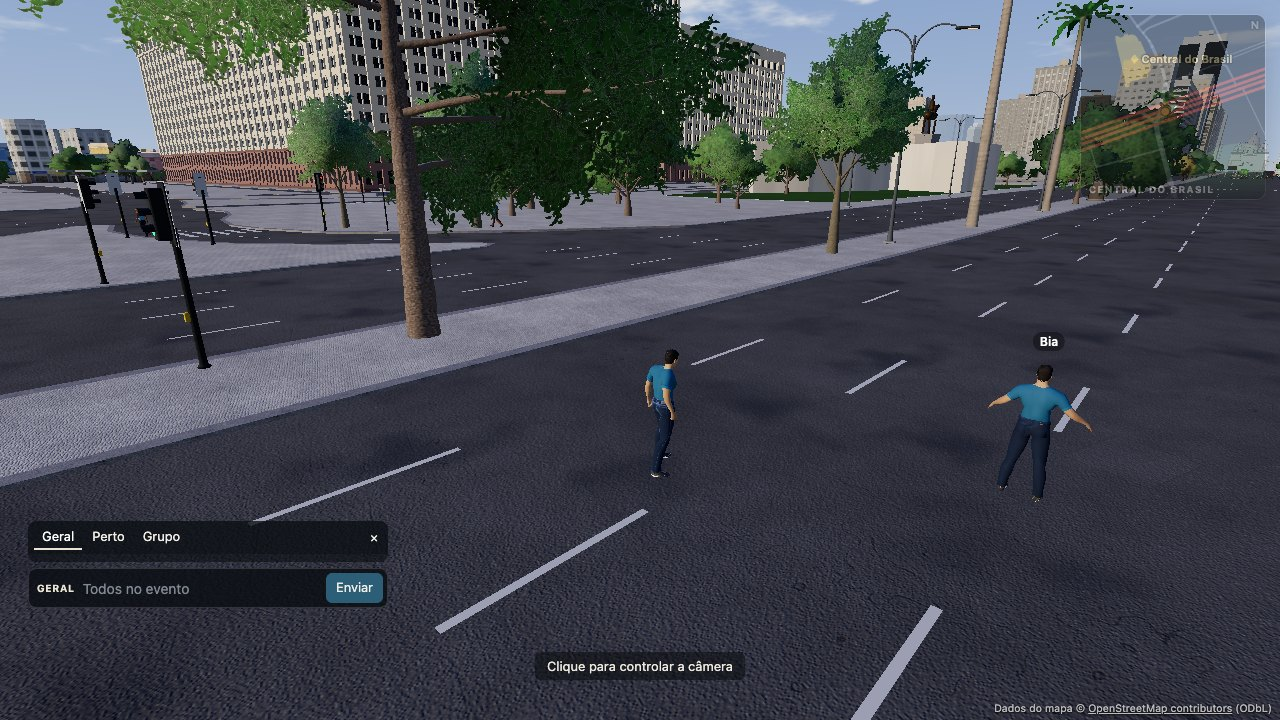
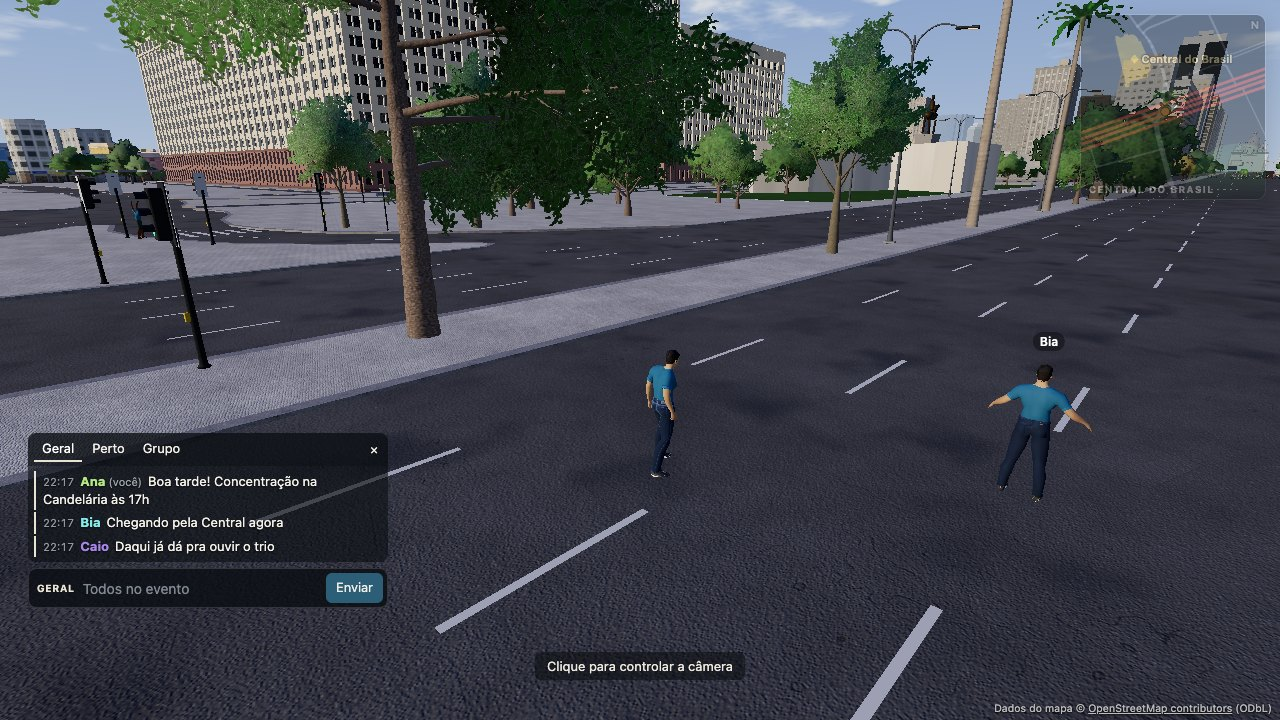
fix(net): NetworkClient.on keeps several listeners per message type (the name-priority hook was replacing the chat panel's handler); chat_mp 22/22

diff --git a/src/net/NetworkClient.ts b/src/net/NetworkClient.ts
@@ -178,7 +178,7 @@ export class NetworkClient {
       this.room = room;
       this.sessionId = room.sessionId;
       this.status = 'online';
-      for (const [type, fn] of this.handlers) room.onMessage(type, fn);
+      for (const type of this.handlers.keys()) room.onMessage(type, (m: unknown) => this.dispatch(type, m));
       room.onMessage('spawn', (s: { x: number; y: number; z: number; heading: number; policy: 'pacifico' | 'opcional'; seed: number }) => {
         this.policy = s.policy; this.seed = s.seed;
         this.onSpawn?.(s);
@@ -255,8 +255,18 @@ export class NetworkClient {
 
   send(type: string, payload?: unknown) { this.room?.send(type, payload); }
   /** mensagens de outros sistemas (ex.: grafite, src/graffiti/GraffitiSystem.ts): registradas antes ou depois do connect */
-  private handlers = new Map<string, (msg: any) => void>();
-  on(type: string, fn: (msg: any) => void) { this.handlers.set(type, fn); this.room?.onMessage(type, fn); }
+  /** VÁRIOS ouvintes por tipo (chat: painel + prioridade de nomes) — um despachante por tipo na sala */
+  private handlers = new Map<string, Set<(msg: any) => void>>();
+  private dispatch(type: string, m: unknown) { for (const fn of this.handlers.get(type) ?? []) fn(m); }
+  on(type: string, fn: (msg: any) => void) {
+    let set = this.handlers.get(type);
+    if (!set) {
+      this.handlers.set(type, (set = new Set()));
+      this.room?.onMessage(type, (m: unknown) => this.dispatch(type, m));
+    }
+    set.add(fn);
+    return () => set!.delete(fn);
+  }
   requestMode(m: 'pacifico' | 'interacao') { this.send('mode', m); }
   /** entrar/sair levam o seq atual: o servidor descarta movimentos antigos ainda em trânsito */
   requestEnter(id: string) { this.holdMoves = true; this.send('enter', { id, seq: this.seq }); }
